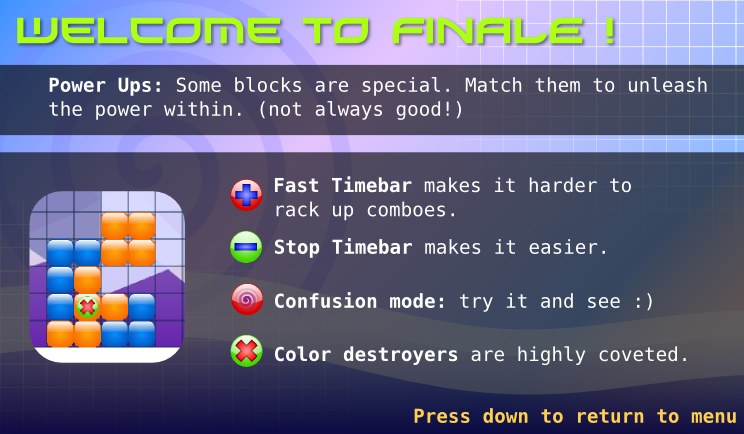
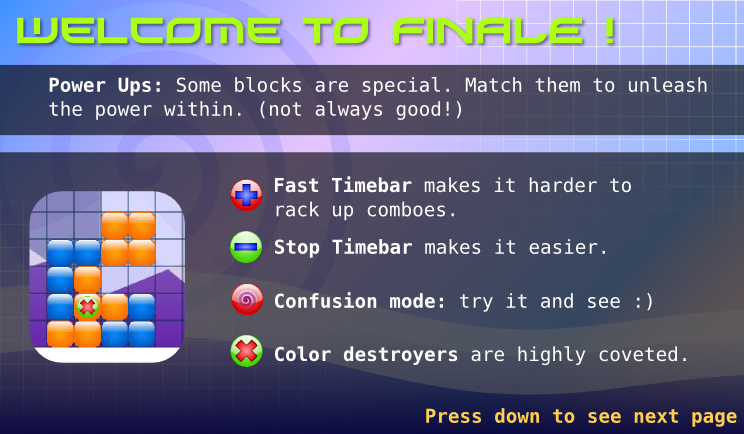
chain destroyer instructions

Changed region(s): [[0.5565, 0.9286, 0.9892, 0.9885]]

diff --git a/finale/controllers/InstructionsController.java b/finale/controllers/InstructionsController.java
@@ -17,7 +17,7 @@ public class InstructionsController implements Controller {
     
     private InstructionsView view = new InstructionsView(this);
     private int page = 1;
-    private int numPages = 3;
+    private int numPages = 4;
     
     private ControllerChangeListener changeListener;
     
